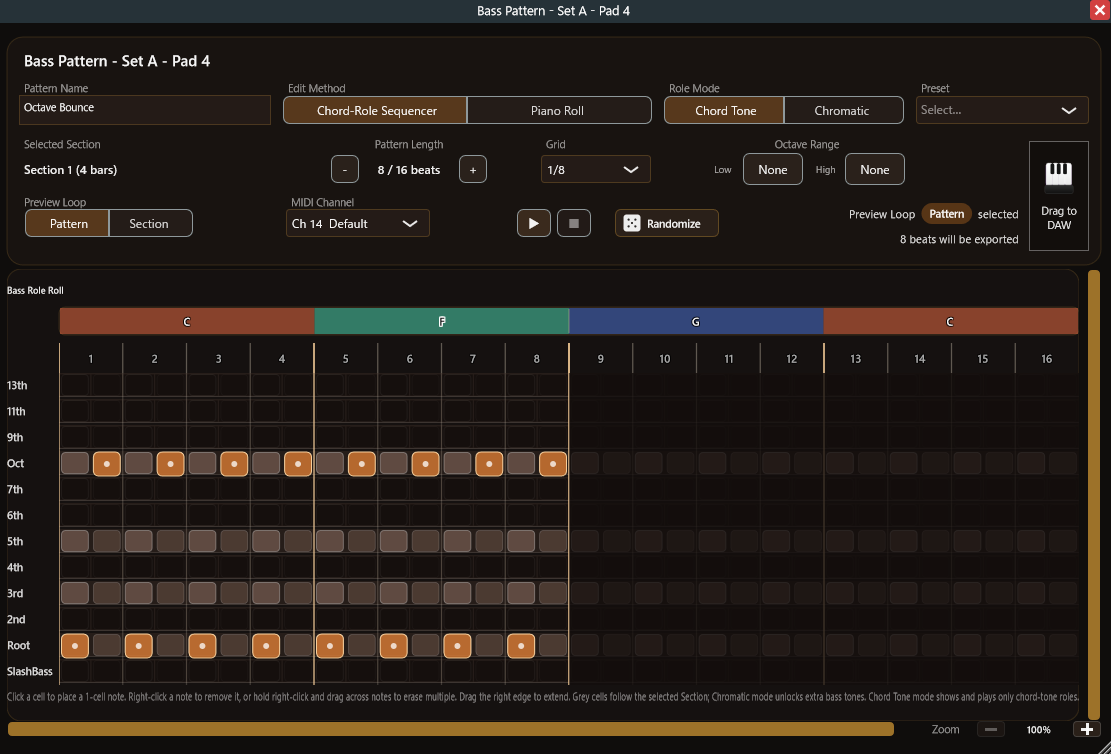
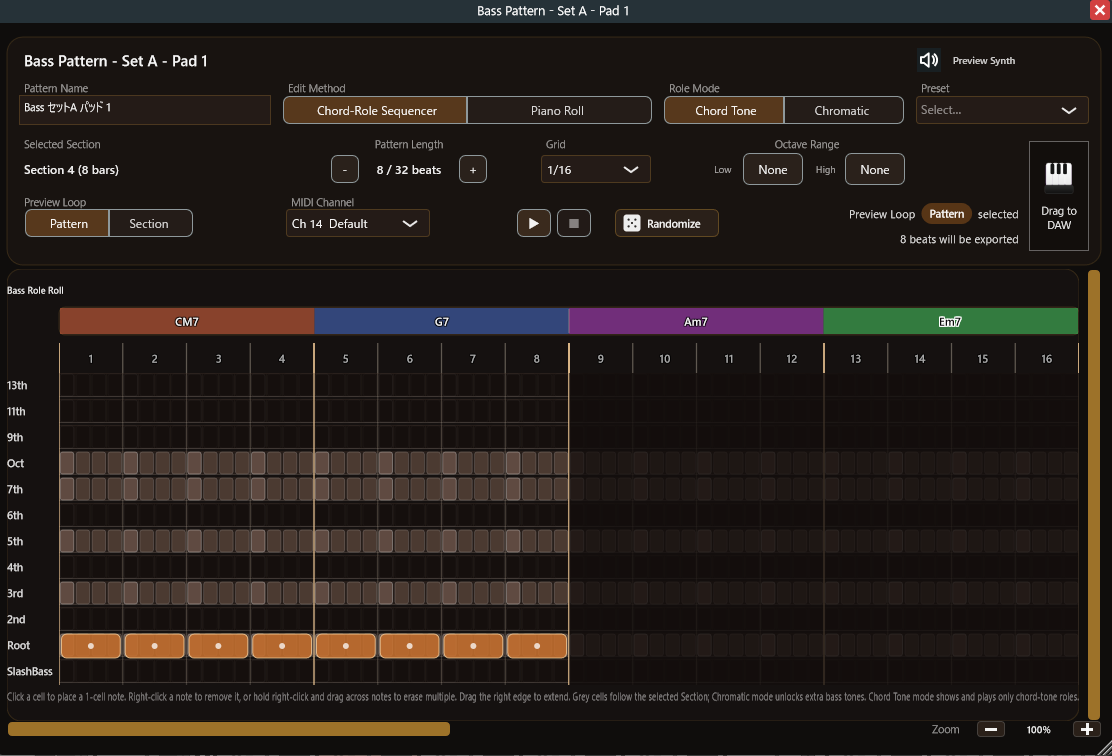
2.0.4

diff --git a/update.html b/update.html
@@ -3,7 +3,7 @@
   <head>
     <meta charset="UTF-8" />
     <meta name="viewport" content="width=device-width, initial-scale=1.0" />
-    <title>ChordDock v2.0.1 アップデートページ</title>
+    <title>ChordDock v2.0.4 アップデートページ</title>
     <!-- Google tag (gtag.js) -->
     <script
       async
@@ -339,16 +339,16 @@
   <body>
     <header>
       <h1>
-        <span class="lang-ja">ChordDock v2.0.1 アップデートページ</span>
-        <span class="lang-en">ChordDock v2.0.1 Update Page</span>
+        <span class="lang-ja">ChordDock v2.0.4 アップデートページ</span>
+        <span class="lang-en">ChordDock v2.0.4 Update Page</span>
       </h1>
       <p>
         <span class="lang-ja"
           >このページでは、ChordDock
-          v2.0.1 の最新版パッケージと、アップデート時の注意点をご案内します。</span
+          v2.0.4 の最新版パッケージと、アップデート時の注意点をご案内します。</span
         >
         <span class="lang-en"
-          >On this page you can download the latest ChordDock v2.0.1 package and
+          >On this page you can download the latest ChordDock v2.0.4 package and
           review update notes.</span
         >
       </p>
@@ -360,10 +360,11 @@
           >v2.0 adds the Performance edition, Arranger Mode, and ChordPart.</span
         >
         <span class="lang-ja"
-          >メインプラグインと ChordPart は同じバージョンの組み合わせで更新してください。</span
+          >Chord Dock 本体は v2.0 系、ChordPart は v1.0 系です。必ず同じ配布パッケージに含まれる対応セットで更新してください。</span
         >
         <span class="lang-en"
-          >Update the main plugin and ChordPart together as a matching-version
+          >The main Chord Dock plugin uses the v2.0 series, while ChordPart uses
+          the v1.0 series. Update both from the same package as a compatible
           set.</span
         >
       </p>
@@ -411,14 +412,14 @@
         </h2>
         <p class="tagline">
           <span class="lang-ja"
-            >v2.0.1 パッケージには、Chord Dock 本体と、パート別 MIDI
+            >v2.0.4 パッケージには、Chord Dock 本体 v2.0.4 と、パート別 MIDI
             受信用の ChordPart が含まれます。ライセンス状態に応じて Lite /
             Extended / Performance の機能が切り替わります。</span
           >
           <span class="lang-en"
-            >The v2.0.1 package includes the Chord Dock main plugin and ChordPart,
-            the bundled per-part MIDI receiver. Available features depend on
-            your Lite / Extended / Performance license.</span
+            >The v2.0.4 package includes the Chord Dock v2.0.4 main plugin and
+            ChordPart, the bundled v1.0-series per-part MIDI receiver. Available
+            features depend on your Lite / Extended / Performance license.</span
           >
         </p>
 
@@ -426,12 +427,12 @@
           <article class="os-card">
             <h3>Windows</h3>
             <div class="version-label">
-              <span class="lang-ja">最新版：ChordDock v2.0.1</span>
-              <span class="lang-en">Latest: ChordDock v2.0.1</span>
+              <span class="lang-ja">最新版：ChordDock v2.0.4（ChordPart v1.0 系 同梱）</span>
+              <span class="lang-en">Latest: ChordDock v2.0.4 (includes ChordPart v1.0 series)</span>
             </div>
             <a
               class="download-button"
-              href="https://github.com/k2get/chord-dock-site/releases/latest/download/Chord_Dock_2.0.1_windows.zip"
+              href="https://github.com/k2get/chord-dock-site/releases/latest/download/Chord_Dock_2.0.4_windows.zip"
             >
               <span class="lang-ja">Windows パッケージをダウンロード</span>
               <span class="lang-en">Download Windows package</span>
@@ -440,12 +441,14 @@
               <span class="lang-ja"
                 >ZIP 内の <code>Chord Dock.vst3</code> と
                 <code>ChordPart.vst3</code> を、どちらも VST3
-                フォルダへコピーしてください。両方を同じ v2.0.1 として更新する必要があります。</span
+                フォルダへコピーしてください。Chord Dock 本体は v2.0.4、ChordPart
+                は v1.0 系です。異なる配布パッケージのものを混在させないでください。</span
               >
               <span class="lang-en"
                 >Copy both <code>Chord Dock.vst3</code> and
                 <code>ChordPart.vst3</code> from the ZIP into your VST3 folder.
-                Both plugins must be updated together to v2.0.1.</span
+                Chord Dock is v2.0.4, while ChordPart is in the v1.0 series. Do
+                not mix files from different packages.</span
               >
             </p>
           </article>
@@ -453,12 +456,12 @@
           <article class="os-card">
             <h3>macOS</h3>
             <div class="version-label">
-              <span class="lang-ja">最新版：ChordDock v2.0.1</span>
-              <span class="lang-en">Latest: ChordDock v2.0.1</span>
+              <span class="lang-ja">最新版：ChordDock v2.0.4（ChordPart v1.0 系 同梱）</span>
+              <span class="lang-en">Latest: ChordDock v2.0.4 (includes ChordPart v1.0 series)</span>
             </div>
             <a
               class="download-button"
-              href="https://github.com/k2get/chord-dock-site/releases/latest/download/Chord_Dock_2.0.1_mac.pkg"
+              href="https://github.com/k2get/chord-dock-site/releases/latest/download/Chord_Dock_2.0.4_mac.pkg"
             >
               <span class="lang-ja">macOS インストーラーをダウンロード</span>
               <span class="lang-en">Download macOS installer</span>
@@ -466,11 +469,11 @@
             <p class="note">
               <span class="lang-ja"
                 >インストーラーに従って更新してください。Chord Dock 本体と
-                ChordPart は、同じ v2.0.1 の組み合わせで使用してください。</span
+                ChordPart は、同じ配布パッケージに含まれる対応セットで使用してください。</span
               >
               <span class="lang-en"
                 >Run the installer and use the main Chord Dock plugin and
-                ChordPart as a matching v2.0.1 set.</span
+                ChordPart as the compatible set included in the same package.</span
               >
             </p>
           </article>
@@ -493,6 +496,39 @@
           <span class="lang-en">Release notes</span>
         </h2>
         <div class="license-box release-notes">
+          <div class="release-item">
+            <h3>ChordDock v2.0.4</h3>
+            <div class="release-date">2026-07-23</div>
+            <ul>
+              <li>
+                <span class="lang-ja"
+                  >Arranger のパターンエディターで、パート別の内蔵シンセプレビュー切り替えに対応しました。</span
+                >
+                <span class="lang-en"
+                  >Added per-part built-in synth preview switching in the
+                  Arranger pattern editors.</span
+                >
+              </li>
+              <li>
+                <span class="lang-ja"
+                  >Cubase などで途中再生したときの Arranger パッド予約切り替えと、再生開始プリロールで MIDI 発音が伸びる問題を修正しました。</span
+                >
+                <span class="lang-en"
+                  >Improved Arranger playback when starting mid-song in Cubase,
+                  including queued pad switching and preroll MIDI note handling.</span
+                >
+              </li>
+              <li>
+                <span class="lang-ja"
+                  >VST3 個別パートの MIDI チャンネル保持と、Trig In 設定の移行を改善しました。</span
+                >
+                <span class="lang-en"
+                  >Improved VST3 per-part MIDI channel persistence and Trig In
+                  setting migration.</span
+                >
+              </li>
+            </ul>
+          </div>
           <div class="release-item">
             <h3>ChordDock v2.0.1</h3>
             <div class="release-date">2026-07-14</div>
@@ -600,11 +636,11 @@
         <div class="license-box">
           <p>
             <span class="lang-ja"
-              >ChordDock v2.0.1 は、同じパッケージ内で Lite / Extended /
+              >ChordDock v2.0.4 は、同じパッケージ内で Lite / Extended /
               Performance の機能をライセンス状態に応じて切り替えます。</span
             >
             <span class="lang-en"
-              >ChordDock v2.0.1 uses one package, and your license state switches
+              >ChordDock v2.0.4 uses one package, and your license state switches
               between Lite / Extended / Performance features.</span
             >
           </p>
@@ -659,12 +695,12 @@
         </h2>
         <p class="note">
           <span class="lang-ja"
-            >アップデート時によくある質問を抜粋しています。詳しい操作手順は、v2.0.1
+            >アップデート時によくある質問を抜粋しています。詳しい操作手順は、v2.0.4
             パッケージ同梱のユーザーマニュアルをご確認ください。</span
           >
           <span class="lang-en"
             >This section covers update-related questions. For detailed
-            operation steps, see the user manual included in the v2.0.1
+            operation steps, see the user manual included in the v2.0.4
             package.</span
           >
         </p>
@@ -723,13 +759,17 @@
               </p>
               <p>
                 <span class="lang-ja"
-                  >メインプラグインと ChordPart のバージョンが違うと、ChordPart
-                  は安全のため送受信を停止します。必ず同じ v2.0.1
-                  の組み合わせで更新してください。</span
+                  >メインプラグインと ChordPart はバージョン番号が一致しません。Chord Dock
+                  本体は v2.0 系、ChordPart は v1.0 系です。Version mismatch
+                  が出る場合は、古いファイルや別パッケージ由来のファイルが混在している可能性があります。v2.0.4
+                  パッケージから両方を入れ直してください。</span
                 >
                 <span class="lang-en"
-                  >If the main plugin and ChordPart versions differ, ChordPart
-                  stops for safety. Update both as a matching v2.0.1 set.</span
+                  >The main plugin and ChordPart use different version-number
+                  series. Chord Dock is in the v2.0 series, while ChordPart is
+                  in the v1.0 series. If you see Version mismatch, files from an
+                  older or different package may be mixed. Reinstall both from
+                  the v2.0.4 package.</span
                 >
               </p>
             </div>
@@ -935,11 +975,11 @@
                 </li>
                 <li>
                   <span class="lang-ja"
-                    >Chord Dock 本体と ChordPart が同じ v2.0.1
-                    の組み合わせになっているか</span
+                    >Chord Dock 本体が v2.0.4、ChordPart が同梱の v1.0 系になっているか</span
                   >
                   <span class="lang-en"
-                    >Whether the main plugin and ChordPart are both v2.0.1</span
+                    >Whether the main plugin is ChordDock v2.0.4 and ChordPart
+                    is the bundled v1.0-series build</span
                   >
                 </li>
               </ul>
@@ -955,12 +995,12 @@
             <div>
               <p>
                 <span class="lang-ja"
-                  >v2.0.1 パッケージに同梱されているユーザーマニュアルをご確認ください。Arranger
+                  >v2.0.4 パッケージに同梱されているユーザーマニュアルをご確認ください。Arranger
                   Mode、Performance Page、Song Page、ChordPart
                   の設定手順までまとまっています。</span
                 >
                 <span class="lang-en"
-                  >See the user manual included in the v2.0.1 package. It covers
+                  >See the user manual included in the v2.0.4 package. It covers
                   Arranger Mode, Performance Page, Song Page, and ChordPart
                   setup steps.</span
                 >
